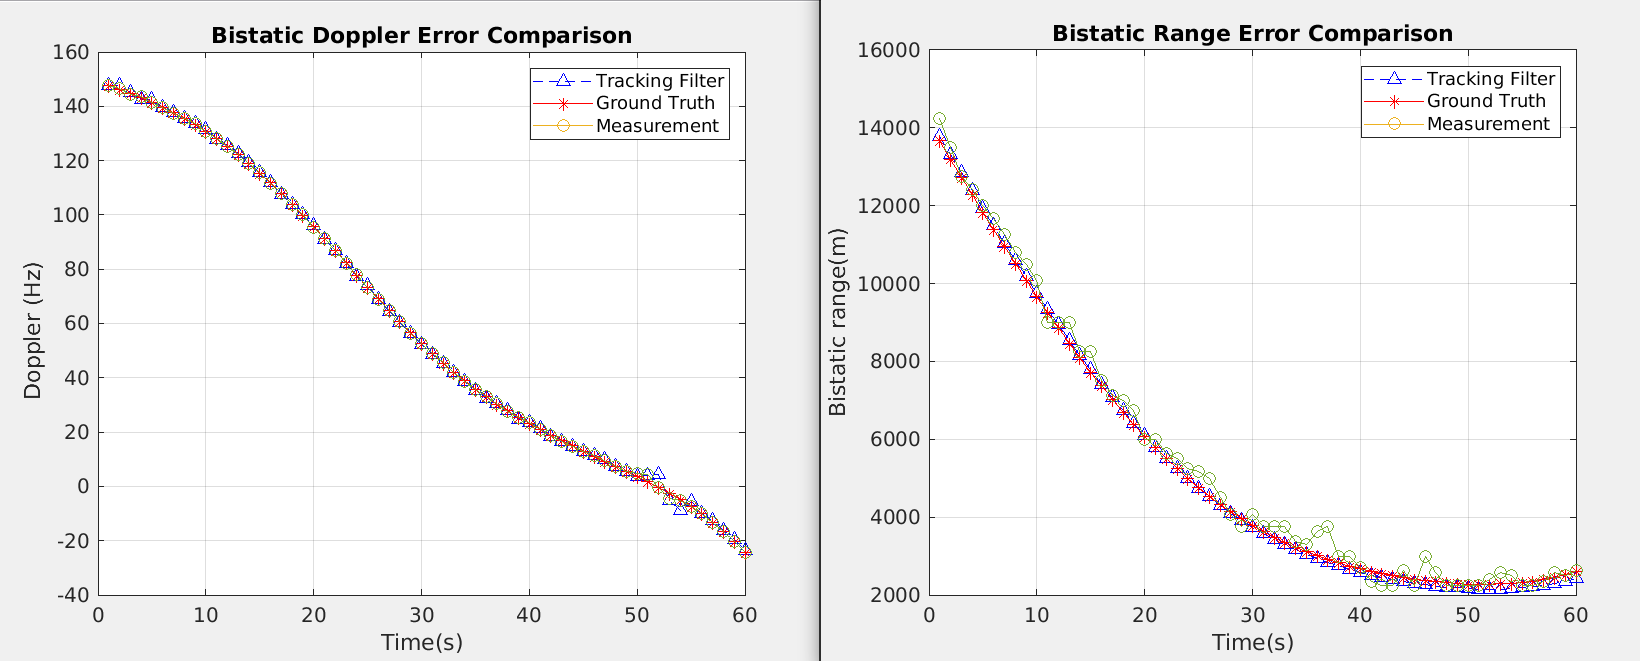
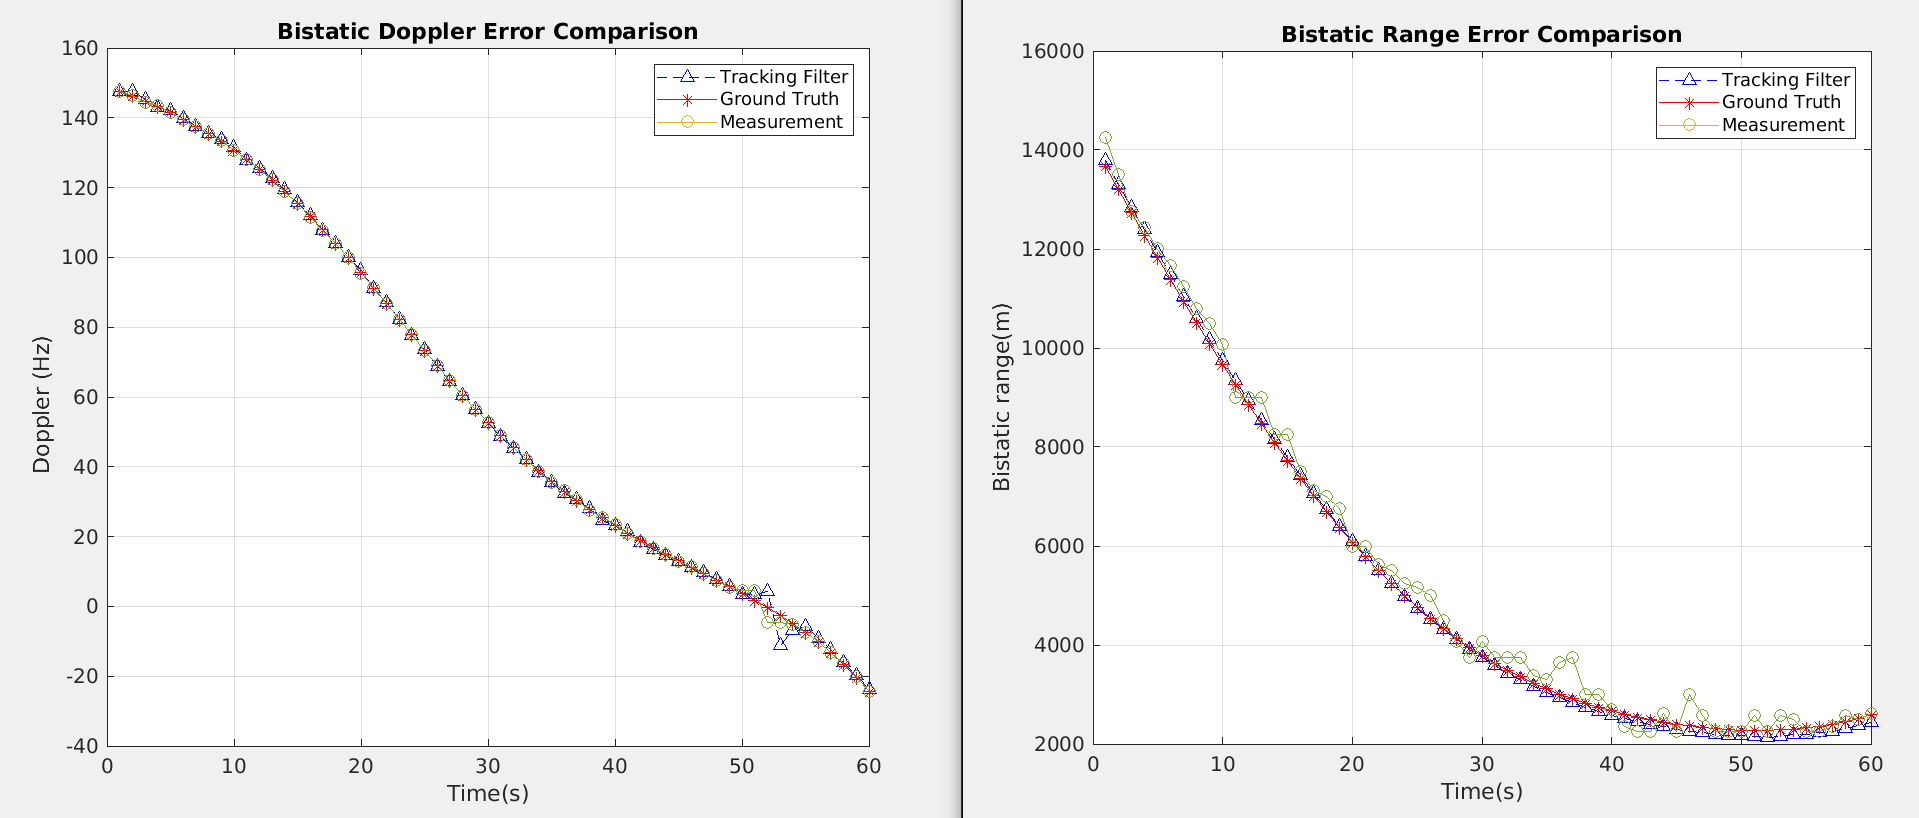
Filter results

diff --git a/TrackingFilter-Polynomial/FMP.m b/TrackingFilter-Polynomial/FMP.m
@@ -1,15 +1,12 @@
 classdef FMP
 
     properties
-        dt,U,X,A,B,H,Q,R,P,S,coeff,measured_x,measured_y,max_iter,k_d;
+        dt,U,X,A,B,H,R,S,measured_x,measured_y,n,k_d;
     end
     
     methods
-        function obj = RGNF(dt,std_acc,r_std,rdot_std,X_initial,max_iter)
+        function obj = FMP(dt,std_acc,r_std,rdot_std,X_initial)
             % Constructor function to initialize the filter
-            
-            % Variables for Stopping criterion
-            obj.max_iter = max_iter;
             
     
             % Initial State
@@ -21,45 +18,66 @@ classdef FMP
             obj.k_d = -299792458/94e6; 
 
             %State transition matrix
-            obj.A = [1,obj.k_d*dt,obj.k_d*(1/2)*dt^2;
+            obj.A = [1,dt,(1/2)*dt^2;
                      0, 1, dt;
                      0, 0, 1;];
                     
             
             obj.H = [1,0,0;0,1,0;];                        % Measurement Function
 
-            
-
-            obj.Q = [(dt^4)/4, (dt^3)/2, (dt^2)/2;
-                     (dt^3)/2, dt^2, dt;
-                     (dt^2)/2, dt , 1]*std_acc;
-
+           
 
             obj.R = [r_std^2,0;0,rdot_std^2];              % Measurement Uncertainty
-            obj.P = eye(size(obj.A,2));                    % Filter Covariance matrix
-            obj.S = [0,0;0,0.0];                            
-
+            obj.S = [0,0;0,0.0];  
+            obj.n =0;
 
         end
 
         % Function to predict the next state
-        function [X_pred, GN_Obj] = predict(obj)
+        function [X_pred, FMP_Obj] = predict(obj)
            
             obj.X = obj.A*obj.X ;
         
-            % Initial covariance matrix
-            obj.P = (obj.A * obj.P * obj.A.') + obj.Q;
 
             X_pred = obj.X;
-            GN_Obj = obj;
+            FMP_Obj = obj;
         end
 
 
-        function [X_est, RGNF_obj] = update(obj, Y_n)
-       
-            obj.X = x_new;
+        function [X_est, FMP_obj] = update(obj, Y_n)
+            %2nd degree Expanding Memory Polynomial Filter
+            
+            X_k = obj.X;
+            %Calculate the Error
+            e_n = [Y_n;0] -X_k;
+            
+            %Calculate weights
+            theta = obj.n;
+            gamma = 0.5 *((1-theta)^3);
+            beta =  1.5 * (1-theta)^2*(1+theta);
+            alpha = 1 - theta^3;
+
+            %T_n = [alpha;beta;gamma;];
+
+            %Update
+            z0=obj.X(1);
+            z1=obj.X(2);
+            z2=obj.X(3);
+
+            Temp0=z0+z1+z2+alpha*e_n(1);
+            Temp1=z1+2*z2+beta*e_n(2);
+            Temp2=z2+gamma*e_n(2);
+            
+            
+            Z=[Temp0;Temp1;Temp2];
+
+            obj.X = Z;
+            %Update Batch Number or Update number
+            obj.n = obj.n+1;
             X_est = obj.X;
-            RGNF_obj = obj;
+            FMP_obj = obj;
+
         end
+
     end
  end

diff --git a/multiTargetTracking/multiTargetTracker.m b/multiTargetTracking/multiTargetTracker.m
@@ -19,7 +19,6 @@ classdef multiTargetTracker
             obj.gatingThreshold = gatingThreshold;
             obj.filterType = filterType;
             obj.newtracksCreated = 0;
-
         end
         
         function obj = createNewTracks(obj,detections)
@@ -37,11 +36,11 @@ classdef multiTargetTracker
                     else
                         obj.tracks(end+1)=track([detections(1,i);detections(2,i)],[;],i,0,0,0,obj.filterType);
                         obj.newtracksCreated = 1;
-
                     end
                 end            
             end
         end
+
         function obj = updateStage(obj,detections)
             %disp("UpdateStage");
             %Assign Tracks to Detection using GNN and update filter with new measurements
@@ -154,7 +153,7 @@ classdef multiTargetTracker
         function [doppler_error, range_error,doppler_meas,range_meas] =getErrors(obj, i,doppler_error,range_error)
             
             % Calculate the Range and Doppler RMS
-            for j = 1:length(obj.tracks)
+            for j = 1:1
                 predictedTrack = obj.tracks(j).predictedTrack;
                 trueTrack = obj.tracks(j).trueTrack;
 
@@ -173,7 +172,8 @@ classdef multiTargetTracker
         function [doppler_ll, range_ll] = calculateLogLikelihood(obj, i,doppler_ll,range_ll)
             
             
-            for j = 1:length(obj.tracks)
+            %for j = 1:length(obj.tracks)
+            for j = 1:1
                 predictedTrack = obj.tracks(j).predictedTrack;
                 trueTrack = obj.tracks(j).trueTrack;
                 s_matrix = obj.tracks(j).trackingFilterObject.S;
@@ -200,7 +200,7 @@ classdef multiTargetTracker
             if(plotResults)
                 time = 1:1:i;            
             
-                for j = 1:length(obj.tracks)
+                 for j = 1:1
                     predictedTrack = obj.tracks(j).predictedTrack;
                     trueTrack = obj.tracks(j).trueTrack;
                     s_matrix = obj.tracks(j).trackingFilterObject.S;
@@ -315,6 +315,7 @@ classdef multiTargetTracker
         function [crlb_doppler,crlb_range] = calculateCRLB(obj, i,crlb_doppler,crlb_range,true_doppler,true_range)
             
             % Calculate the CRLB for each track
+            %{
             for j = 1:length(obj.tracks)
                 observedTrack = obj.tracks(j).trueTrack;
                 sample_variance_doppler = sum((observedTrack(2,i) - true_doppler(i)  ).^2) / 1;
@@ -331,7 +332,11 @@ classdef multiTargetTracker
                 crlb_range(i) = 1/Fisher_information_mu_range;
                 
             end
-      
+            %}
+            FIM = obj.tracks(1).trackingFilterObject.P;
+            crlb = FIM^(-1) ;
+            crlb_doppler(i) = crlb(1,1);
+            crlb_range(i) = crlb(2,2);
 
         end
     end

diff --git a/TrackingFilter-RGNF/RGNF.m b/TrackingFilter-RGNF/RGNF.m
@@ -1,7 +1,7 @@
 classdef RGNF
 
     properties
-        dt,U,X,A,B,H,Q,R,P,coeff,measured_x,measured_y,max_iter,k_d;
+        dt,U,X,A,B,H,Q,R,P,S,coeff,measured_x,measured_y,max_iter,k_d;
     end
     
     methods
@@ -37,6 +37,8 @@ classdef RGNF
 
             obj.R = [r_std^2,0;0,rdot_std^2];              % Measurement Uncertainty
             obj.P = eye(size(obj.A,2));                    % Filter Covariance matrix
+            obj.S = [0,0;0,0.0];                            
+
 
         end
 
@@ -54,11 +56,16 @@ classdef RGNF
 
 
         function [X_est, RGNF_obj] = update(obj, Y_n)
-            K_n = 0;
             x_new = obj.X;
-            tolerance = 1e-6;  % Convergence tolerance 
-             %The forgetting  factor(Lambda) - between 0 and 1
-            lambda = 0.8;
+
+            %Convergence tolerance 
+            tolerance = 1e-6; 
+            %The forgetting  factor(Lambda) - between 0 and 1
+            lambda = 1;
+
+            %S = H*P*H'+ R - Innovation Covariance Matrix
+            obj.S = obj.H * obj.P * obj.H.' + obj.R;
+
             for i = 1:obj.max_iter
                 % Observer gain Kn
                 K_n = obj.P * obj.H.' / (obj.R + obj.H * obj.P * obj.H.');
@@ -66,7 +73,7 @@ classdef RGNF
                 % Delta Error 
                 dx = K_n * (Y_n - obj.H *x_new -obj.H*(obj.X-x_new)); 
                 x_temp = obj.X + dx;
-                disp(dx);
+
                 % Check for convergence
                 if norm(x_temp - x_new) < tolerance
                     x_new = x_temp;

diff --git a/multiTargetTracking/track.m b/multiTargetTracking/track.m
@@ -39,8 +39,8 @@ classdef track
                 case 2
                     disp("Initializing Particle Filter");
                     N=5000;                                          %Number of particles
-                    std_acc=1;                                       %Standard Deviation of the process noise
-                    std_meas=[500,0.1];                              %Standard Deviation of the measurements in the x and y
+                    std_acc=0.1;                                       %Standard Deviation of the process noise
+                    std_meas=[500,1];                              %Standard Deviation of the measurements in the x and y
                     PF_object = particleFilter(dt,std_acc,std_meas,[obj.x_initial(1);obj.x_initial(2);0;],N);
                     obj.trackingFilterObject = PF_object;
                 
